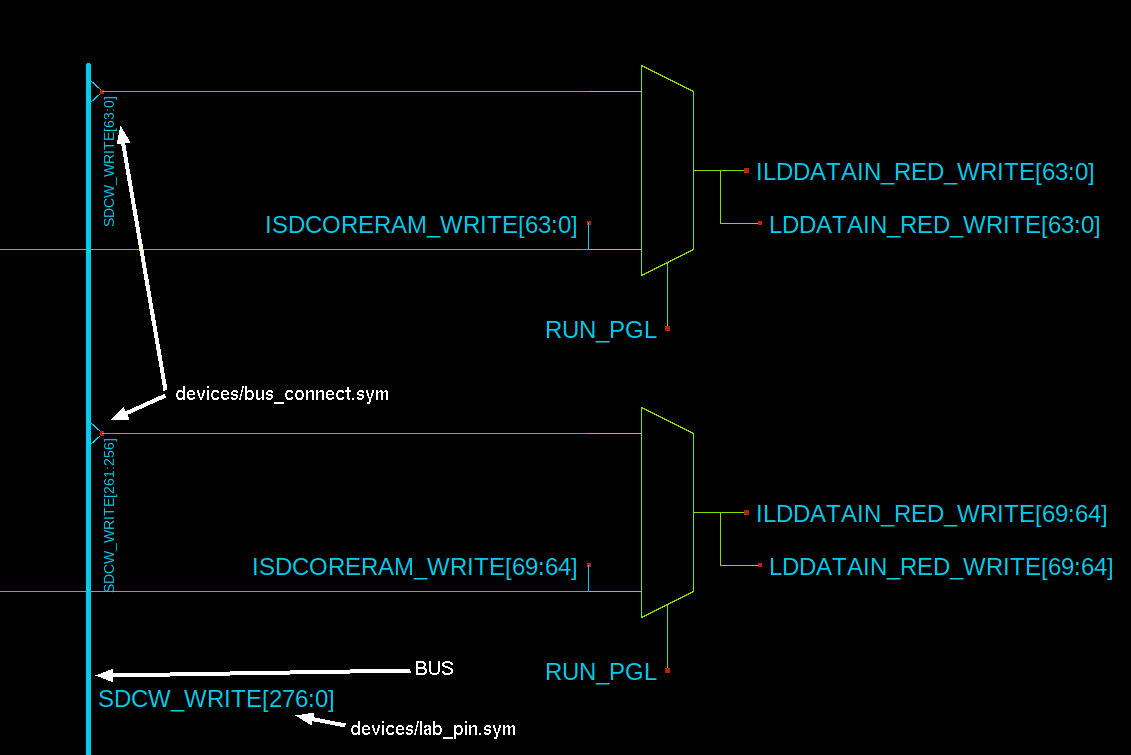
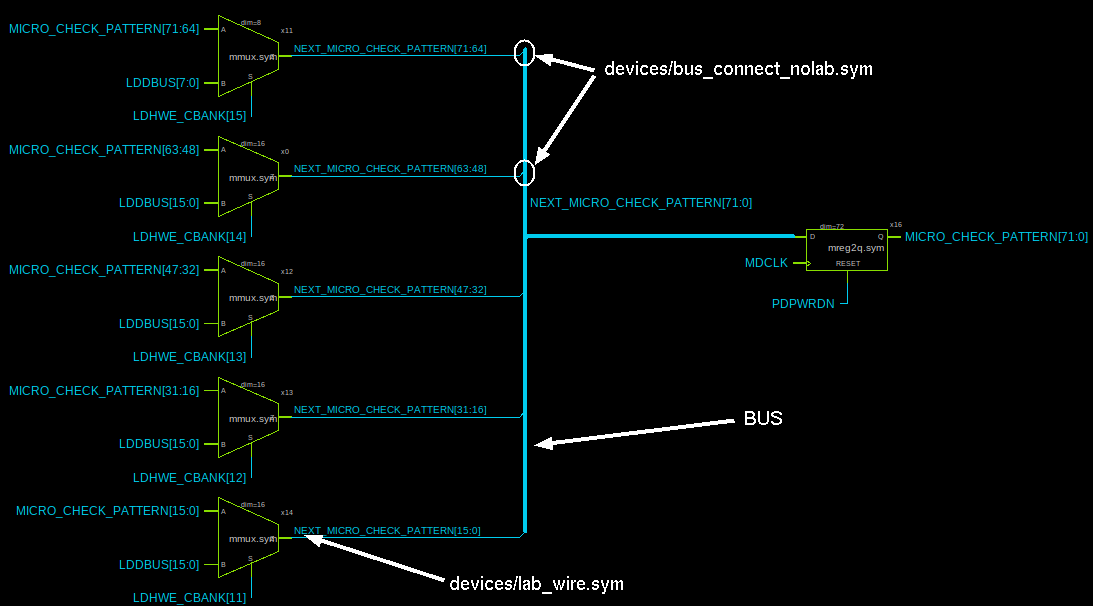
tutorial updates for buses

diff --git a/doc/xschem_man/tutorial_busses.html b/doc/xschem_man/tutorial_busses.html
@@ -44,12 +44,45 @@ p{padding: 15px  30px 10px;}
  </p>
  <img src="busses0.png">
  <br>
+
  <p>
-  In following picture there is a main 277 bit bus (the vertical thick wire) and a bus ripper symbol
-  (<kbd>devices/bus_connect.sym</kbd>) is used to take a slice of bits from the main bus.
+  Recently a new notation has been added for buses that expands without putting brackets:
+ </p>
+ <ul>
+ <li><kbd>AAA[3..0]</kbd>: describes the set <kbd>AAA3,AAA2,AAA1,AAA0</kbd>. The form <kbd>AAA[3..0]</kbd>
+    and <kbd>AAA3,AAA2,AAA1,AAA0</kbd> are exactly equivalent.</li>
+ <li><kbd>AAA[1..0],BBB[5..4]</kbd>: describes the bundle: <kbd>AAA1,AAA0,BBB5,BBB4</kbd>.</li>
+ <li><kbd>AAA[6..0..2]</kbd>: describes the bundle <kbd>AAA6,AAA4,AAA2,AAA0</kbd>.</li>
+ <li><kbd>2*AAA[1..0]</kbd>: describes the bundle <kbd>AAA1,AAA0,AAA1,AAA0</kbd>.</li>
+ <li><kbd>AAA[1..0]*2</kbd>: describes the bundle <kbd>AAA1,AAA1,AAA0,AAA0</kbd>.</li>
+ <li><kbd>2*(AAA[1..0],BBB)</kbd>: describes the bundle <kbd>AAA1,AAA0,BBB,AAA1,AAA0,BBB</kbd>.</li>
+ <li><kbd>(AAA[1..0],BBB)*2</kbd>: describes the bundle <kbd>AAA1,AAA1,AAA0,AAA0,BBB,BBB</kbd>.</li>
+ </ul>
+
+
+ <p>
+  In following picture there is a main 72 bit bus (the vertical thick wire) and bus ripper symbols
+  (<kbd>devices/bus_connect_nolab.sym</kbd>) are used to take slices of bits from the main bus. Wire labels are used to define bus slices.
+  To display thick wires for busses, select all wire segments, then press 'q' and add attribute <kbd>bus=true</kbd>.
  </p>
  <img src="busses1.png">
-
+ <p>
+  following picture shows an istantiation of 6 inverters:
+ </p>
+ <img src="busses2.png">
+ <p>
+  The generated spice netlist is the following:
+ </p>
+ <pre class="code">
+...
+xinv5 BB0 AA5 bf
+xinv4 BB1 AA4 bf
+xinv3 BB2 AA3 bf
+xinv2 BB3 AA2 bf
+xinv1 BB4 AA1 bf
+xinv0 BB5 AA0 bf
+...
+ </pre>
  <!-- end of slide -->
  <div class="filler"></div>
 </div>
